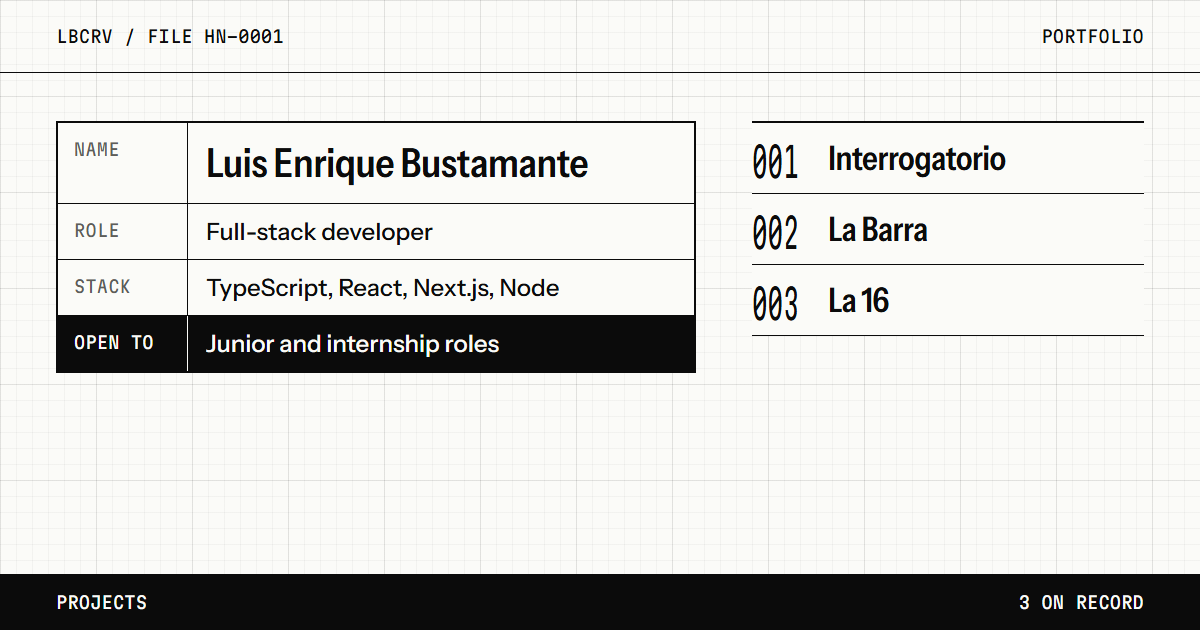
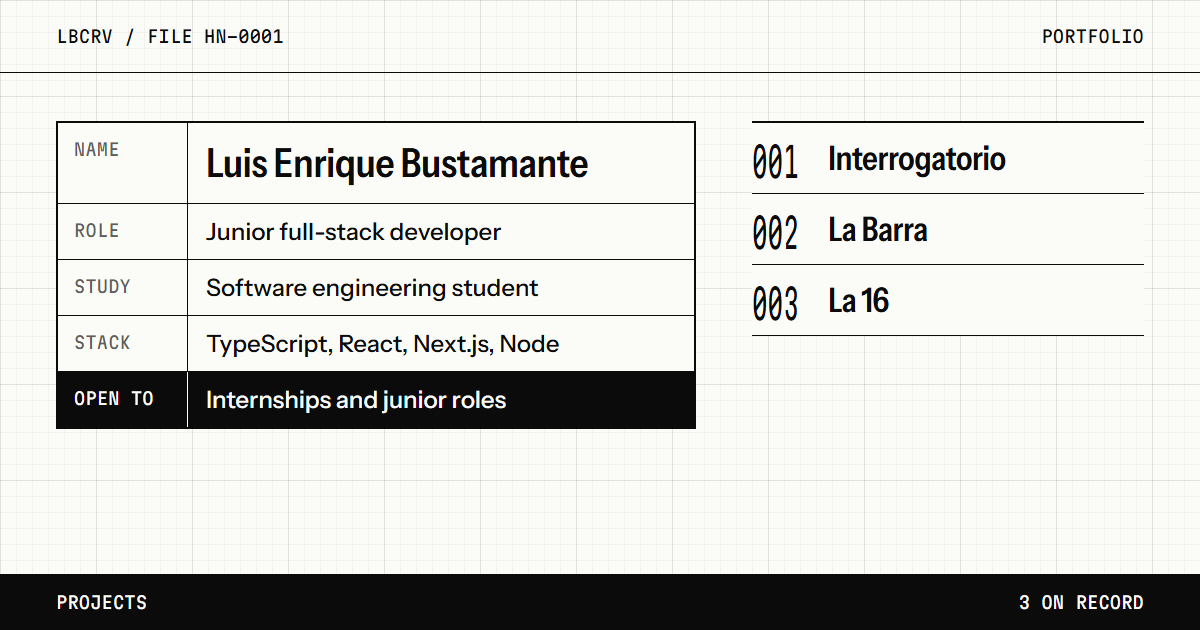
Rewrite copy for recruiters: role, study, key decisions
- Role is now "Junior full-stack developer" and a Study row says
  "Software engineering student", matching the GitHub profile.
- Intro states what kind of role I'm looking for.
- Project points describe decisions and outcomes instead of specs.
- "Last push" moves from the title row to a quiet "Updated" month.
- Removes the redacted "Currently building" line until launch.

Changed region(s): [[0.0308, 0.4222, 0.5858, 0.6937], [0.1542, 0.3317, 0.4317, 0.3921]]

diff --git a/src/data/projects.ts b/src/data/projects.ts
@@ -21,11 +21,11 @@ export const projects: Project[] = [
     repo: 'interrogatorio',
     live: 'https://interrogatorio-five.vercel.app',
     summary:
-      'A detective game where a language model plays the three suspects and deterministic code runs everything else. You have 24 questions to work out who took the saint\'s crown before the procession leaves.',
+      'A detective game where you question three suspects played by a language model. I built it to find out whether an LLM could run a game\'s characters without being able to break the game.',
     points: [
-      'Each suspect\'s prompt holds only what that person knows, so the innocent ones cannot leak the solution.',
-      'The server rebuilds game state by replaying the turn log, so forged progress is rejected.',
-      'Every reply is screened in code before the player sees it.',
+      'The model only plays characters. A deterministic engine owns the case, the question budget and what counts as proof, so the game stays fair and testable.',
+      'Each suspect only knows their own story. The innocent ones never see the solution, so no prompt trick can make them reveal it.',
+      'It runs on a free API tier with a daily question limit per visitor, so it costs nothing to keep online.',
     ],
     stack: ['Next.js', 'TypeScript', 'Groq API'],
     languages: 'English, Spanish',
@@ -37,11 +37,11 @@ export const projects: Project[] = [
     repo: 'la-barra',
     live: 'https://la-barra-seven.vercel.app',
     summary:
-      'Cartoon 3D table football set in a Honduran corner shop. Play against a bot, with two players on one keyboard, or online with a room code.',
+      'A 3D table football game set in a Honduran corner shop. You can play against a bot, with two players on one keyboard, or online with a friend using a room code.',
     points: [
-      'A real-size table simulated with Rapier at 480 Hz, so hard kicks never pass through the ball.',
-      'Online play is peer to peer over WebRTC. The host runs the physics and streams snapshots 30 times a second.',
-      'Every model, texture and sound is generated in code. There are no asset files.',
+      'Online play needs no game server: the two browsers connect directly and the host\'s browser runs the match, so hosting costs nothing.',
+      'Real physics under the cartoon look, tuned so hard shots never pass through the ball.',
+      'All art and sound are generated in code, so there are no models or audio files to download.',
     ],
     stack: ['Next.js', 'React Three Fiber', 'Rapier', 'PeerJS', 'TypeScript'],
     languages: 'English, Spanish',
@@ -53,11 +53,11 @@ export const projects: Project[] = [
     repo: 'la-16',
     live: 'https://la-16.pages.dev',
     summary:
-      'Standings, fixtures and a season simulator for the Honduran Liga Nacional. Fans type in scores for upcoming games and watch the table change.',
+      'Standings, fixtures and a playoff simulator for Honduras\'s top football league. Fans can enter scores for upcoming games and see how the table would change.',
     points: [
-      'Estimates playoff odds by simulating the rest of the season 4,000 times with a Poisson goal model.',
-      'A scheduled GitHub Action pulls results on match days, and Cloudflare redeploys on each commit.',
-      'Works offline through a service worker. No framework and no build dependencies.',
+      'Results update on their own: a scheduled job checks for final scores on match days and publishes them without any manual work.',
+      'Playoff odds come from simulating the rest of the season thousands of times.',
+      'No framework and no build step, so it loads fast and works offline.',
     ],
     stack: ['JavaScript', 'GitHub Actions', 'Cloudflare Pages'],
     languages: 'Spanish',

diff --git a/src/styles/global.css b/src/styles/global.css
@@ -100,12 +100,6 @@ main { max-width: var(--max); margin: 0 auto; }
 .about { display: flex; flex-direction: column; gap: 28px; }
 .lead { font-size: 22px; line-height: 1.45; max-width: 44ch; font-stretch: 92%; }
 
-.now { border-left: 1.5px solid var(--ink); padding-left: 16px; }
-.now .label { color: var(--mid); margin-bottom: 4px; }
-.redact {
-  display: inline-block; width: 7.5em; height: 0.95em; background: var(--ink);
-  vertical-align: -0.1em;
-}
 
 .contact { display: flex; gap: 12px; flex-wrap: wrap; }
 
@@ -218,6 +212,7 @@ footer.strip { border-top: 1px solid var(--ink); color: var(--mid); }
 .plate dl .row:nth-child(2) > * { animation-delay: 470ms; }
 .plate dl .row:nth-child(3) > * { animation-delay: 540ms; }
 .plate dl .row:nth-child(4) > * { animation-delay: 610ms; }
+.plate dl .row:nth-child(5) > * { animation-delay: 680ms; }
 
 @media (max-width: 960px) {
   .intro { grid-template-columns: 1fr; gap: 36px; }

diff --git a/src/lib/github.ts b/src/lib/github.ts
@@ -22,3 +22,7 @@ export async function lastPush(repo: string): Promise<Date | null> {
 export function formatDate(date: Date): string {
   return date.toISOString().slice(0, 10).replaceAll('-', '.');
 }
+
+export function formatMonth(date: Date): string {
+  return date.toLocaleDateString('en-US', { month: 'long', year: 'numeric', timeZone: 'UTC' });
+}
